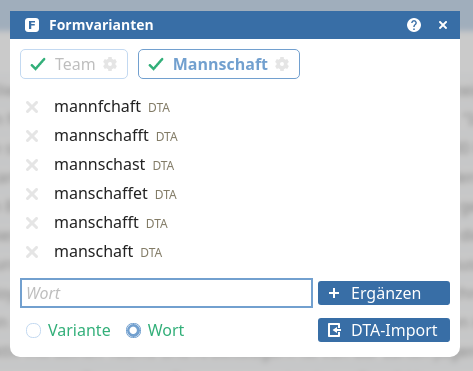
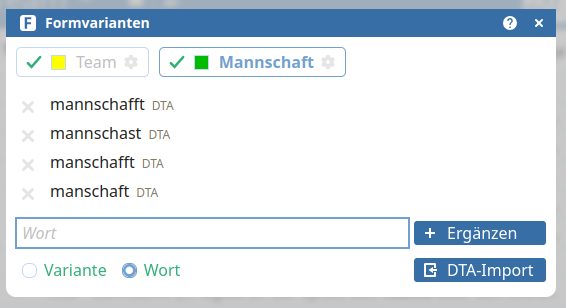
Change: beim Hinzufügen neuer Karteiwörter über den Lemmata-Dialog bekommen die neuen Wörter automatisch eine noch nicht vergebene Hervorhebungsfarbe zugewiesen; diese Farbe wird auch im Lemmata-Filter angezeigt

Changed region(s): [[0.0, 0.0, 1.0, 0.9643], [0.0592, 0.4968, 0.3848, 0.5552], [0.2072, 0.0, 0.2664, 0.0292]]

diff --git a/win/handbuch.html b/win/handbuch.html
@@ -621,7 +621,7 @@
 
             <p>Das Vornehmen einer Formatierung kann mit der Fehlermeldung <q>illegale Verschachtelung</q> scheitern. In diesem Fall müssen Sie die Textauswahl ändern. Eine <a href="#belegliste-nesting">Erläuterung zu Verschachtelungsregeln in <abbr title="Hypertext Markup Language" lang="en">HTML</abbr></a> finden Sie im <a href="#belegliste"><abbr title="Kapitel">Kap.</abbr> <i>Belegliste</i></a>.</p>
 
-            <p>Etwas Besonderes stellt das Text-Tool <img src="../img/text-markiert.svg" width="20" height="20" alt=""> dar. Mit ihm können Sie Textteile markieren, um sie später leichter wiederzufinden. So <b>markierte Texte</b> werden standardmäßig gelb hinterlegt und werden explizit als Nutzermarkierung klassifiziert (durch <code class="quelltext">class="user"</code>). Die so markierten Textteile sind in der Detailansicht der Belegliste und der Leseansicht der Karteikarte klicksensitiv. In einem Popup-Fensterchen können Sie die Farbe der Markierung ändern und/oder die markierte Stelle um eine Notiz ergänzen. Die Funktion wird genauer in der <a href="#belegliste-karteiwortHervorheben">Belegliste im Zusammenhang mit der Annotierung von Karteiwörtern erläutert</a>.</p>
+            <p>Etwas Besonderes stellt das Text-Tool <img src="../img/text-markiert.svg" width="20" height="20" alt=""> dar. Mit ihm können Sie Textteile markieren, um sie später leichter wiederzufinden. So <b>markierte Texte</b> werden standardmäßig blau hinterlegt und werden explizit als Nutzermarkierung klassifiziert (durch <code class="quelltext">class="user"</code>). Die so markierten Textteile sind in der Detailansicht der Belegliste und der Leseansicht der Karteikarte klicksensitiv. In einem Popup-Fensterchen können Sie die Farbe der Markierung ändern und/oder die markierte Stelle um eine Notiz ergänzen. Die Funktion wird genauer in der <a href="#belegliste-karteiwortHervorheben">Belegliste im Zusammenhang mit der Annotierung von Karteiwörtern erläutert</a>.</p>
 
             <p id="karteikarte-belegEinfuegen">Das <b>Einfügen von Text</b> funktioniert in diesem Feld anders als in anderen Textfeldern der Karteikarte. Normalerweise wird der in der Zwischenablage befindliche Text so, wie er ist, <abbr title="das heißt">d.&nbsp;h.</abbr> ohne jede Formatierung, in das betreffende Feld hineinkopiert. Verfügt der in der Zwischenablage liegende Text jedoch über Layoutangaben im <abbr title="Hypertext Markup Language" lang="en">HTML</abbr>-Format, bleiben einfache Formate wie fett (<code class="quelltext">&lt;b&gt;</code>), kursiv (<code class="quelltext">&lt;i&gt;</code>) oder unterstrichen (<code class="quelltext">&lt;u&gt;</code>) erhalten. Dabei wird das Original-<abbr title="Hypertext Markup Language" lang="en">HTML</abbr> automatisch bereinigt.</p>
 
@@ -1415,7 +1415,7 @@
           <p class="erklaerung-icon" id="belegliste-karteiwortHervorheben"><img src="../img/text-fett.svg" width="24" height="24" alt="">Karteiwort im Belegtext hervorheben</p>
 
           <div class="info">
-            <p>Ist das Icon aktiviert, versucht das Programm, alle Vorkommen des Karteiworts im Belegtext gelb hervorzuheben. Haben Sie eine Kartei zum Wort <i>Freiheit</i> erstellt, könnte die Hervorhebung so aussehen: <mark class="wort">Freiheit</mark>. Für das Hervorheben des Karteiworts werden ebenso wie für die <a href="#belegliste-kuerzung">Kürzungsfunktion</a> die aus dem <abbr title="Deutschen Textarchiv">DTA</abbr> importierten <a href="#menueKartei-formvarianten">Formvarianten</a> herangezogen. Die Markierung funktioniert gut, wenn die Liste der Formvarianten gut ist, sodass auch variierende Schreibungen wie <i>Fraiheit</i> oder <i>Freyheit</i> automatisch markiert werden sollten. Die Markierung bleibt dabei standardmäßig nicht auf das Karteiwort selbst beschränkt; es wird automatisch eine Links- und Rechtserweiterung des Worts vorgenommen, sodass Varianten mit Affix ebenso markiert werden sollten wie Komposita oder andere Derivativa. Darum dürften Sie in den Belegen auch Markierungen wie <mark class="wort">Freiheiten</mark> oder <mark class="wort">Freiheitsversprechen</mark> finden.</p>
+            <p>Ist das Icon aktiviert, versucht das Programm, alle Vorkommen des Karteiworts im Belegtext farblich hervorzuheben. Haben Sie eine Kartei zum Wort <i>Freiheit</i> erstellt, könnte die Hervorhebung so aussehen: <mark class="wort">Freiheit</mark>. Für das Hervorheben des Karteiworts werden ebenso wie für die <a href="#belegliste-kuerzung">Kürzungsfunktion</a> die aus dem <abbr title="Deutschen Textarchiv">DTA</abbr> importierten <a href="#menueKartei-formvarianten">Formvarianten</a> herangezogen. Die Markierung funktioniert gut, wenn die Liste der Formvarianten gut ist, sodass auch variierende Schreibungen wie <i>Fraiheit</i> oder <i>Freyheit</i> automatisch markiert werden sollten. Die Markierung bleibt dabei standardmäßig nicht auf das Karteiwort selbst beschränkt; es wird automatisch eine Links- und Rechtserweiterung des Worts vorgenommen, sodass Varianten mit Affix ebenso markiert werden sollten wie Komposita oder andere Derivativa. Darum dürften Sie in den Belegen auch Markierungen wie <mark class="wort">Freiheiten</mark> oder <mark class="wort">Freiheitsversprechen</mark> finden.</p>
 
             <p>Die Güte einer solchen automatischen Markierung hat natürlich ihre Grenzen, die besonders bei sehr kurzen Wörtern und erst recht bei Homonymen sichtbar werden. Haben Sie eine Kartei zum Wort <i>Tor</i>, werden standardmäßig auch Wörter wie <mark class="wort">Senator</mark>, <mark class="wort">Territorium</mark> oder <mark class="wort">historisch</mark> hervorgehoben. (Für solche Fälle kann man die <a href="#menueKartei-formvariantenErweitern">automatische Erweiterung ausstellen</a>.) Und arbeiten Sie zum Wort <i>Masse</i> im Sinne von <q class="bedeutung">Menschenmasse</q>, wird die App nicht erkennen können, ob im Text von der physikalischen Größe oder einer Menschengruppe die Rede ist.</p>
 
@@ -1424,7 +1424,7 @@
               <figcaption>die Annotierungsfunktion</figcaption>
             </figure>
 
-            <p id="belegliste-annotierenBeleg">Für solche Fälle lassen sich einzelne Vorkommen der Karteiwörter im <b>Belegtext</b> bequem <b>annotieren</b>. Dazu müssen Sie sich zunächst den Belegtext anzeigen lassen (Klick auf einen Karteikartenkopf oder <img src="../img/auge.svg" width="20" height="20" alt="">) und die <a href="#belegliste-trennzeichen">Trennstriche einblenden</a> (<img src="../img/trennzeichen.svg" width="20" height="20" alt="">). Klicken Sie jetzt auf ein gelb markiertes Karteiwort, öffnet sich ein Popup-Fenster, in dem Sie die Markierungsfarbe ändern und/oder eine Notiz hinzufügen können. Die Notiz erscheint nach dem Schließen des Popups in einem Tooltip, sobald Sie mit der Maus über der annotierten Passage schweben.</p>
+            <p id="belegliste-annotierenBeleg">Für solche Fälle lassen sich einzelne Vorkommen der Karteiwörter im <b>Belegtext</b> bequem <b>annotieren</b>. Dazu müssen Sie sich zunächst den Belegtext anzeigen lassen (Klick auf einen Karteikartenkopf oder <img src="../img/auge.svg" width="20" height="20" alt="">) und die <a href="#belegliste-trennzeichen">Trennstriche einblenden</a> (<img src="../img/trennzeichen.svg" width="20" height="20" alt="">). Klicken Sie jetzt auf ein farblich markiertes Karteiwort, öffnet sich ein Popup-Fenster, in dem Sie die Markierungsfarbe ändern und/oder eine Notiz hinzufügen können. Die Notiz erscheint nach dem Schließen des Popups in einem Tooltip, sobald Sie mit der Maus über der annotierten Passage schweben.</p>
 
             <p id="belegliste-annotierenBelegTransparent">Wählen Sie als <b>Farbe transparent</b>, hat das nicht nur visuelle Konsequenzen. Treffer von Karteiwörtern, die in dieser Weise markiert wurden, werden von der App fortan so behandelt, als wären es gar keine Treffer. <abbr title="Das heißt">D.&nbsp;h.</abbr> konkret: Versucht das Programm den Belegtext <a href="#belegliste-kuerzung">um Absätze zu kürzen</a>, in denen das Karteiwort nicht auftaucht, wird ein Absatz, in dem das Karteiwort transparent gesetzt wurde, so behandelt, als würde das Karteiwort in diesem Absatz nicht auftauchen. Der Absatz wird in diesem Fall herausgekürzt. Außerdem: In der <a href="#belegliste-kopfleisteBelege">Kopfleiste der Belege</a> wird dieses Wort für die Ermittlung des Textausschnitts nicht herangezogen und dort auch niemals hervorgehoben. Und schließlich: Haben Sie in den <a href="#einstellungen">Einstellungen</a> die Kopierfunktionen so konfiguriert, dass die <a href="#einstellungen-kopierenHervorhebung">Hervorhebung von Karteiwörtern erhalten</a> bleiben soll, werden Karteiwörter, deren Hintergrund transparent gesetzt wurde, von dieser Operation ausgenommen. Dasselbe gilt für <a href="#belegliste-xmlZwischenablageBelegschnitt"><abbr title="Extensible Markup Language" lang="en">XML</abbr>-Snippets</a>: Automatisch markierte Karteiwörter, deren Hintergrundfarbe transparent gesetzt wurde, werden nicht mit dem Tag <code class="quelltext">&lt;Stichwort&gt;</code> ausgezeichnet.</p>
 
@@ -1437,7 +1437,7 @@
             <ol>
               <li>Klicken Sie auf das Icon <img src="../img/muelleimer.svg" width="20" height="20" alt=""> wird die Annotierung entfernt.</li>
 
-              <li>Der zweite Weg ist komplizierter: Hierfür müssten Sie eine <abbr title="eventuell">evtl.</abbr> hinzugefügte Notiz entfernen, aus der Checkbox <i>nicht taggen</i> den Haken nehmen und die Standardfarbe auswählen, was in diesem Fall Gelb ist. (Gelb dient auch dann zum Löschen der Annotierung, wenn Sie im <a href="#menueKartei-formvarianten">Formvarianten-Fenster</a> eine andere Farbe für das Wort festgelegt haben.) Nutzen Sie einfach das Icon!</li>
+              <li>Der zweite Weg ist komplizierter: Hierfür müssten Sie eine <abbr title="eventuell">evtl.</abbr> hinzugefügte Notiz entfernen, aus der Checkbox <i>nicht taggen</i> den Haken nehmen und die Standardfarbe auswählen, was in diesem Fall Gelb ist. (Gelb dient auch dann zum Löschen der Annotierung, wenn im <a href="#menueKartei-formvarianten">Formvarianten-Fenster</a> eine andere Farbe für das Wort festgelegt ist.) Nutzen Sie einfach das Icon!</li>
             </ol>
 
             <p id="belegliste-annotieren">Die Annotierungsfunktion kann nicht nur für Karteiwörter benutzt werden. Im Prinzip können Sie mit ihr einen beliebigen <b>Abschnitt im Belegtext markieren</b>. Hierzu müssen Sie nur den Text mit der Maus auswählen, der markiert werden soll, auf dem ausgewählten Text rechtsklicken und <i>Textauswahl markieren</i> wählen. Klicken Sie auf die Markierung, öffnet sich das gleiche Popup-Fenster wie beim Klick auf ein Karteiwort. Der einzige Unterschied zur Annotierung von Karteiwörtern: Die Markierung wird in diesem Fall gelöscht, wenn die Farbe transparent gesetzt wird.</p>
@@ -4251,7 +4251,7 @@ Mustermann, Erika
               <figcaption>automatisch markiertes Synonym im Umfeld des Karteiworts</figcaption>
             </figure>
 
-            <p id="menueKartei-formvariantenKollokationen">Die Änderung der Hintergrundfarbe ist freilich keine Spielerei, denn Sie können das Ergänzen von Wörtern und die Einstellung einer je eigenen Hintergrundfarbe dafür verwenden, um in der Belegliste <b>Kollokationen, Synonyme</b> oder <abbr title="dergleichen">dgl.</abbr> automatisch sichtbar zu machen. Nehmen wir ein Beispiel aus der <a href="#" class="hilfe-demo">Demonstrationskartei</a> zum Wort <i>Team</i>: Ihnen ist aufgefallen, dass <i>Mannschaft</i> häufig synonym gebraucht wird. Sie möchten das im Blick behalten. <a href="#menueKartei-formvariantenErgaenzenWort">Ergänzen</a> Sie also zunächst das Wort <i>Mannschaft</i> im Formvariantenfenster. Ändern Sie im Konfigurations-Popup die Hintergrundfarbe (standardmäßig werden alle Wörter gelb hinterlegt). Das Wort wird in der Belegliste und der Leseansicht der Karteikarte fortan ebenfalls hervorgehoben – mit der gewählten Hintergrundfarbe.</p>
+            <p id="menueKartei-formvariantenKollokationen">Die Änderung der Hintergrundfarbe ist freilich keine Spielerei, denn Sie können das Ergänzen von Wörtern und die Einstellung einer je eigenen Hintergrundfarbe dafür verwenden, um in der Belegliste <b>Kollokationen, Synonyme</b> oder <abbr title="dergleichen">dgl.</abbr> automatisch sichtbar zu machen. Nehmen wir ein Beispiel aus der <a href="#" class="hilfe-demo">Demonstrationskartei</a> zum Wort <i>Team</i>: Ihnen ist aufgefallen, dass <i>Mannschaft</i> häufig synonym gebraucht wird. Sie möchten das im Blick behalten. <a href="#menueKartei-formvariantenErgaenzenWort">Ergänzen</a> Sie also zunächst das Wort <i>Mannschaft</i> im Formvariantenfenster. Ändern Sie im Konfigurations-Popup die Hintergrundfarbe (standardmäßig werden manuell hinzugefügte Wörter gelb hinterlegt). Das Wort wird in der Belegliste und der Leseansicht der Karteikarte fortan ebenfalls hervorgehoben – mit der gewählten Hintergrundfarbe.</p>
 
             <p id="menueKartei-formvariantenNurMarkieren">Das ist ein praktisches Verfahren, aber auch problematisch. Denn die Wörter im Formvariantenfenster werden <abbr title="unter anderem">u.&nbsp;a.</abbr> dafür genutzt, den <a href="#belegliste-kuerzung">Kontext eines Belegs zu kürzen</a>. Sind mehrere Wörter vorhanden, nimmt das Programm an, dass Sie zu einem mehrgliedrigen Karteiwort arbeiten. Dies ist hier aber gar nicht der Fall. Sie arbeiten zu <i>Team</i>, nicht zu <i>Mannschaft</i>, um bei dem Beispiel zu bleiben. Kürzen Sie nun den Belegkontext, wird das Programm alle Absätze eliminieren, in denen nicht sowohl <i>Team</i> als auch <i>Mannschaft</i> zu finden sind. Kurzum: Sie müssen dem Programm mitteilen, dass die Formvarianten von <i>Mannschaft</i> nur zum Markieren genutzt werden sollen, das Wort für andere Funktionen jedoch nicht von Relevanz ist. Aktivieren Sie hierzu im Konfigurations-Popup die standardmäßig deaktivierte <b>Option <i>nur markieren</i></b>. Dann wird <i>Mannschaft</i> für die folgenden Funktionen nicht berücksichtigt:</p>
 
@@ -4299,7 +4299,7 @@ Mustermann, Erika
 
             <p class="erklaerung-icon"><img src="../img/nicht-trunkiert.svg" width="20" height="20" alt="">Das Wort wird beim Hervorheben <a href="#menueKartei-formvariantenErweitern"><em>nicht</em> links und rechts erweitert</a>.</p>
 
-            <p class="erklaerung-icon"><img src="../img/text-markiert-gelb.svg" width="20" height="20" alt="">Das Wort wird <a href="#menueKartei-formvariantenNurMarkieren">nur markiert</a> und somit <a href="#menueKartei-formvariantenNurMarkierenFunktionen">für einige Funktionen nicht herangezogen</a>.</p>
+            <p class="erklaerung-icon"><img src="../img/text-markiert.svg" width="20" height="20" alt="">Das Wort wird <a href="#menueKartei-formvariantenNurMarkieren">nur markiert</a> und somit <a href="#menueKartei-formvariantenNurMarkierenFunktionen">für einige Funktionen nicht herangezogen</a>.</p>
 
             <p class="erklaerung-icon"><img src="../img/raute.svg" width="20" height="20" alt="">Das Wort wurde als <a href="#menueKartei-formvariantenNebenlemma">Nebenlemma</a> gekennzeichnet.</p>
           </div>

diff --git a/js/app/lemmata.js b/js/app/lemmata.js
@@ -109,7 +109,6 @@ const lemmata = {
           }
         }
         const woerter = [];
-        const ausWortverbindung = new Set();
         const ausWortverbindungNl = new Set();
         for (const lemma of hinzu) {
           if (data.fv[lemma]) {
@@ -129,7 +128,6 @@ const lemmata = {
               for (const wort of lemma.split(" ")) {
                 if (!woerter.includes(wort) && !data.fv[wort]) {
                   woerter.push(wort);
-                  ausWortverbindung.add(wort);
                   if (nl.has(lemma)) {
                     ausWortverbindungNl.add(wort);
                   }
@@ -139,6 +137,30 @@ const lemmata = {
           }
         }
         if (woerter.length) {
+          // Farben ermitteln, die noch vergeben werden können
+          // 0 = Gelb
+          // 4 = Rot
+          // 5 = Rosa
+          // 6 = Lila
+          // 11 = Türkis
+          // 14 = Hellgrün
+          const farben = [ 0, 14, 4, 11, 6, 5 ];
+          while (farben.length < 17) {
+            const fa = helfer.zufall(1, 17);
+            if (fa !== 9 && !farben.includes(fa)) {
+              // 9 = Blau (auslassen, weil Standardfarbe für Annotierungen)
+              farben.push(fa);
+            }
+          }
+          const farbenFv = {};
+          for (const [ wort, val ] of Object.entries(data.fv)) {
+            farbenFv[wort] = val.fa;
+            const idx = farben.indexOf(val.fa);
+            if (idx > -1) {
+              farben.splice(idx, 1);
+            }
+          }
+
           // Fenster sperren und Formvarianten laden
           document.activeElement.blur();
           const sperre = helfer.sperre(document.getElementById("lemmata-cont"));
@@ -162,9 +184,55 @@ const lemmata = {
             }
           }
 
-          // Farbe der Einzelwörter aus Wortverbindugnen anpassen
-          for (const wort of ausWortverbindung) {
-            data.fv[wort].fa = 14;
+          // Farben für die Formvarianten vergeben
+          // 1. Wortgruppen mit neuen Wörtern und deren Farbe ermitteln
+          const gruppen = {};
+          for (let i = 0, len = data.la.la.length; i < len; i++) {
+            const lemma = data.la.la[i];
+            if (data.la.wf && !lemma.nl) {
+              // Titel von Wortfeldartikeln ausschließen
+              continue;
+            }
+            let sc = [ ...lemma.sc ];
+            let fa = -1;
+            for (const i of lemma.sc) {
+              if (typeof farbenFv[i] !== "undefined") {
+                fa = farbenFv[i];
+              }
+              const mehrwort = i.split(" ");
+              if (mehrwort.length > 1) {
+                sc = sc.concat(mehrwort);
+              }
+            }
+            if (sc.some(i => woerter.includes(i))) {
+              // Gruppe nur aufnehmen, wenn eines der Wörter neu geladen wurde
+              gruppen[i] = {
+                sc,
+                fa,
+              };
+            }
+          }
+
+
+          // 2. den Wortgruppen mit neuen Wörtern ihre Farben zuordnen
+          for (const val of Object.values(gruppen)) {
+            let fa = val.fa;
+            if (fa === -1) {
+              if (!farben.length) {
+                do {
+                  fa = helfer.zufall(0, 17);
+                  // 9 = Blau (auslassen, weil Standardfarbe für Annotierungen)
+                } while (fa === 9);
+              } else {
+                fa = farben[0];
+                farben.shift();
+              }
+            }
+            for (const i of val.sc) {
+              if (data.fv[i]) {
+                data.fv[i].fa = fa;
+              }
+            }
           }
         }
 

diff --git a/js/app/filter.js b/js/app/filter.js
@@ -750,14 +750,17 @@ const filter = {
     } else if (!obj.wert && !filter.exklusivAktiv.includes(f)) {
       return [ null ];
     }
+
     // Sollte der Filter als Filterbaum dargestellt werden?
     const baum = f.match(/: /g);
     let baum_tiefe = 0;
     if (baum) {
       baum_tiefe = baum.length;
     }
+
     // in der Filter-ID sind wahrscheinlich Leerzeichen
     const f_enc = encodeURI(f);
+
     // Filter drucken
     const frag = document.createDocumentFragment();
     const div = document.createElement("div");
@@ -766,6 +769,7 @@ const filter = {
     div.classList.add("filter-baum");
     div.dataset.f = f;
     frag.appendChild(div);
+
     // Input
     const input = document.createElement("input");
     input.classList.add("filter");
@@ -776,6 +780,7 @@ const filter = {
     if (!obj.wert && /^bedeutungen-/.test(f)) {
       input.disabled = true;
     }
+
     // Label
     const label = document.createElement("label");
     label.setAttribute("for", `filter-${f_enc}`);
@@ -785,6 +790,14 @@ const filter = {
       label.innerHTML = helfer.escapeHtml(obj.name);
     }
     p.appendChild(label);
+
+    // Farbe (für Lemmata-Filter)
+    if (/^lemmata-/.test(f) && data.fv[obj.name]) {
+      const fa = document.createElement("span");
+      p.insertBefore(fa, label);
+      fa.classList.add("farbe", `wortFarbe${data.fv[obj.name].fa}`);
+    }
+
     // Anzahl der Belege
     if (obj.wert) {
       const span = document.createElement("span");
@@ -793,11 +806,13 @@ const filter = {
       span.title = `Anzahl der Belege, auf die der Filter „${obj.name}“ zutrifft`;
       p.appendChild(span);
     }
+
     // ggf. Absatz mit Sternen aufbauen
     if (f === "verschiedenes-markierung") {
       frag.lastChild.classList.add("markierung");
       frag.appendChild(filter.aufbauenSterne());
     }
+
     // Fragment zurückgeben
     return [ frag, baum_tiefe ];
   },

diff --git a/js/app/stamm.js b/js/app/stamm.js
@@ -386,6 +386,8 @@ const stamm = {
       // Aktivierung umstellen
       aktiv.classList.remove("aktiv");
       this.classList.add("aktiv");
+      // Icons auffrischen
+      stamm.kopfIcons(this.closest("[data-wort]"));
       // Änderungsmarkierung setzen
       kartei.karteiGeaendert(true);
     });
@@ -416,29 +418,40 @@ const stamm = {
   //     (der Kopfblock, in dem die Icons erzeugt/aufgefrischt werden sollen)
   kopfIcons (span) {
     // alle bisherigen Icons entfernen
-    span.querySelectorAll(".stamm-kopf-icon").forEach(i => i.parentNode.removeChild(i));
+    span.querySelectorAll(".stamm-kopf-icon, .farbe-kopf").forEach(i => i.parentNode.removeChild(i));
+
     // Wort ermitteln
     const wort = span.dataset.wort;
+
     // Textelement, vor dem die Images stehen sollen, zwischenspeichern
     const text = span.firstChild;
+
     // aktivieren
     if (data.fv[wort].an) {
       span.insertBefore(stamm.kopfMakeIcon("check-gruen.svg"), text);
     } else {
       span.insertBefore(stamm.kopfMakeIcon("x-dick-rot.svg"), text);
     }
+
     // erweitern
     if (data.fv[wort].an && !data.fv[wort].tr) {
       span.insertBefore(stamm.kopfMakeIcon("nicht-trunkiert.svg"), text);
     }
+
     // Nebenlemma
     if (data.fv[wort].an && data.fv[wort].nl) {
       span.insertBefore(stamm.kopfMakeIcon("raute.svg"), text);
     }
+
     // nur markiert
     if (data.fv[wort].an && data.fv[wort].ma) {
-      span.insertBefore(stamm.kopfMakeIcon("text-markiert-gelb.svg"), text);
+      span.insertBefore(stamm.kopfMakeIcon("text-markiert.svg"), text);
     }
+
+    // Farbe
+    const fa = document.createElement("span");
+    span.insertBefore(fa, text);
+    fa.classList.add("farbe-kopf", `wortFarbe${data.fv[wort].fa}`);
   },
 
   // Icon erzeugen

diff --git a/win/changelog.html b/win/changelog.html
@@ -63,9 +63,15 @@
         <h3>Verbesserungen</h3>
 
         <ul>
+          <li>
+            <p>Werden im <a href="#menueKartei-lemmata" class="link-handbuch">Lemmata-Dialog</a> neue Wörter eingetragen wird beim Erstellen neuer Formvarianten automatisch eine Hervorhebungsfarbe vergeben, die noch von keinem anderen Lemma genutzt wurde. Zusammengehörige Lemmata, also <abbr title="zum Beispiel">z.&nbsp;B.</abbr> Schreibvarianten, bekommen immer dieselbe Farbe zugewiesen. Im <a href="#menueKartei-formvariantenKonfiguration" class="link-handbuch">Konfigurationsdialog der Formvarianten</a> können Sie aber nach wie vor selbst eine Farbe definieren.</p>
+
+            <p>Die Hervorhebungsfarbe wird auch im <a href="#filter-lemmata" class="link-handbuch">Lemmata-Filter</a> angezeigt.</p>
+          </li>
+
           <li>Die Standardfarbe für manuelle <a href="#belegliste-annotierenBeleg" class="link-handbuch">Annotierungen</a> im Belegtext ist nun Blau.</li>
 
-          <li>Einige Verbesserungen des <a href="#karteikarte-dwdsImport" class="link-handbuch">DWDS-Imports</a>.</li>
+          <li>Der <a href="#karteikarte-dwdsImport" class="link-handbuch">DWDS-Imports</a> wurde verbessert.</li>
         </ul>
 
         <h3>Updates</h3>

diff --git a/css/app/liste.css b/css/app/liste.css
@@ -324,6 +324,15 @@ p.no-indent + .filter-baum, /* betrifft Verschiedenes > Filterlogik */
   color: var(--textSehrHell);
 }
 
+#liste-filter .farbe {
+  vertical-align: top;
+  display: inline-block;
+  margin: 5px 5px 0 0;
+  border: 1px solid var(--linie);
+  width: 13px;
+  height: 13px;
+}
+
 #filter-verschiedenes-bewertung {
   margin: 5px 0 0 22px;
 }

diff --git a/css/app/overlays-stamm.css b/css/app/overlays-stamm.css
@@ -36,6 +36,15 @@
   font-weight: bold;
 }
 
+#stamm-kopf > span > .farbe-kopf {
+  vertical-align: top;
+  display: inline-block;
+  margin: 5px 5px 0 5px;
+  border: 1px solid var(--linie);
+  width: 13px;
+  height: 13px;
+}
+
 #stamm-kopf img {
   vertical-align: bottom;
 }
